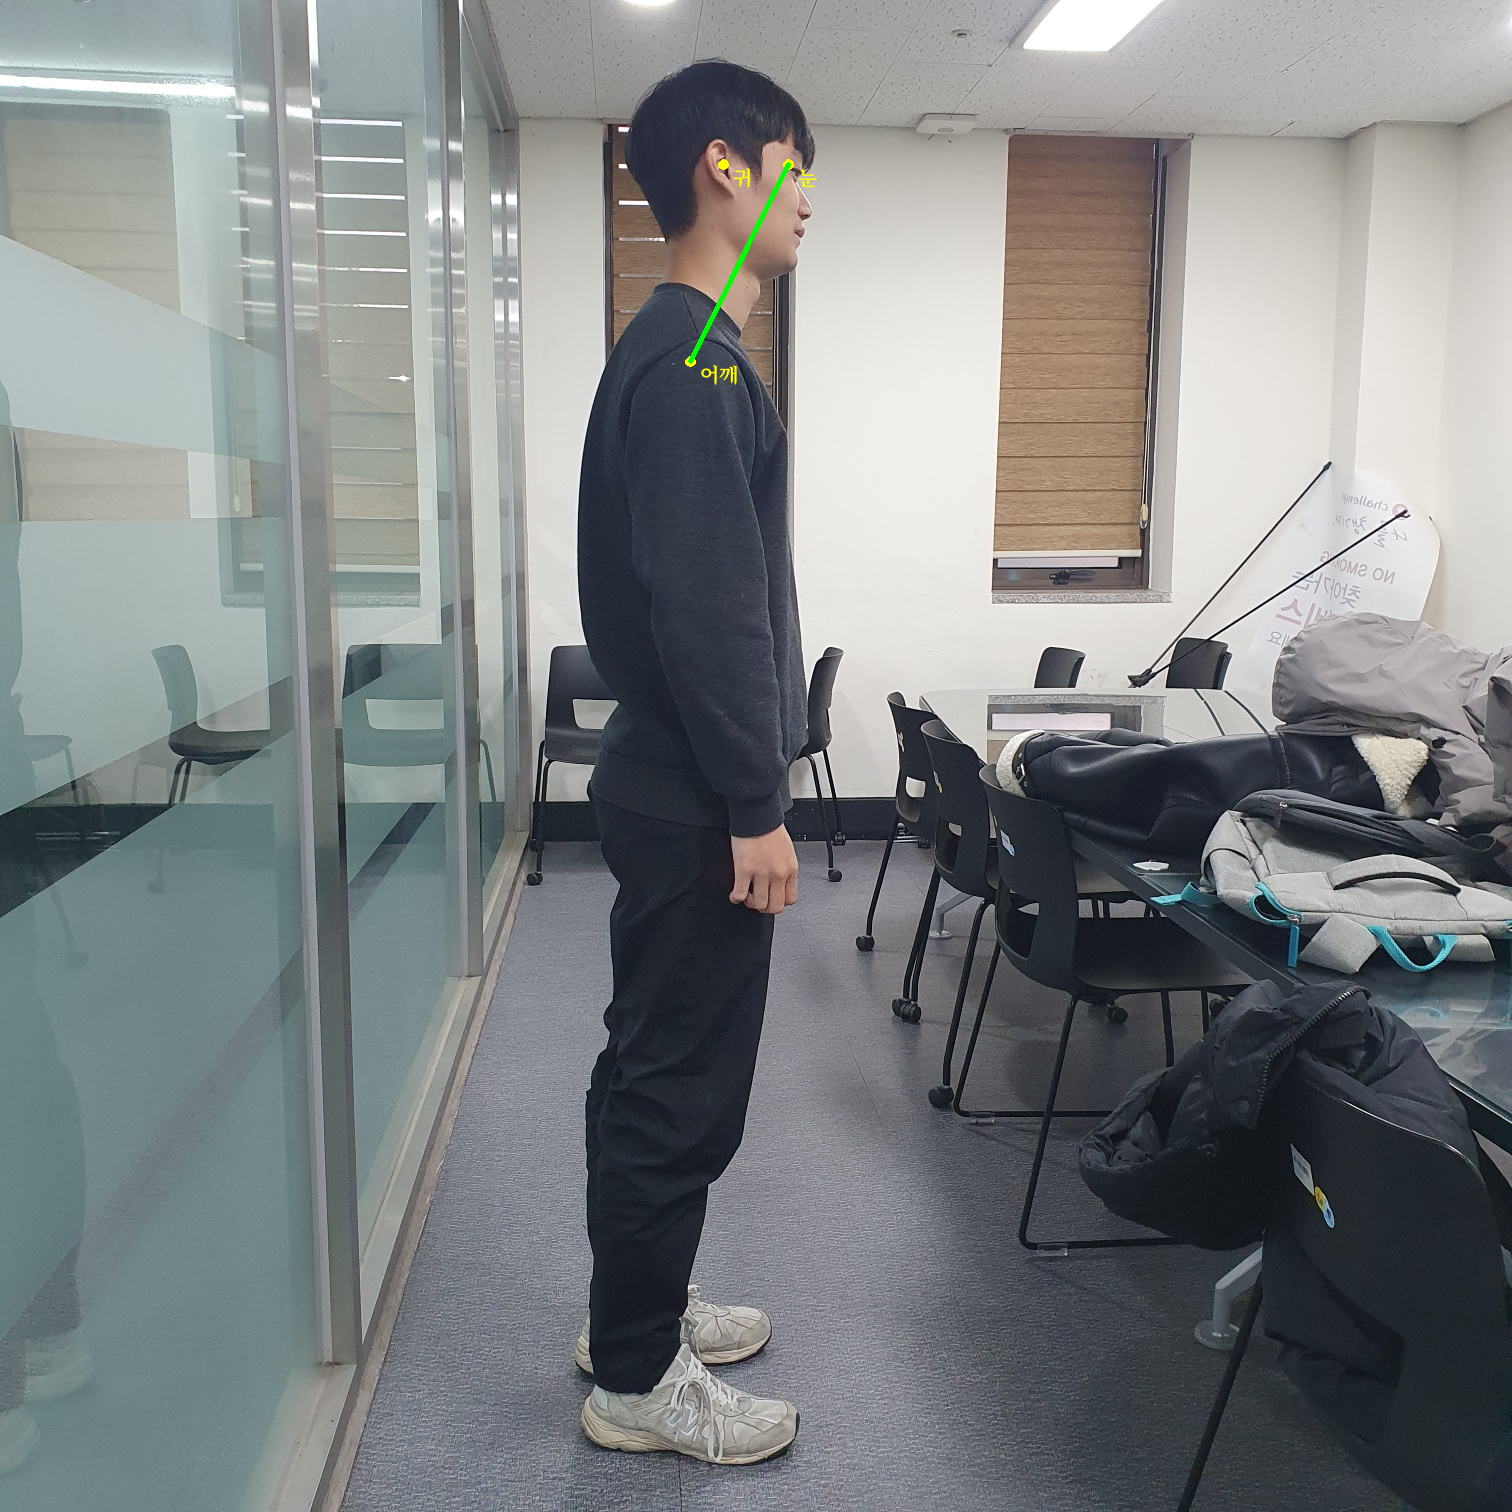
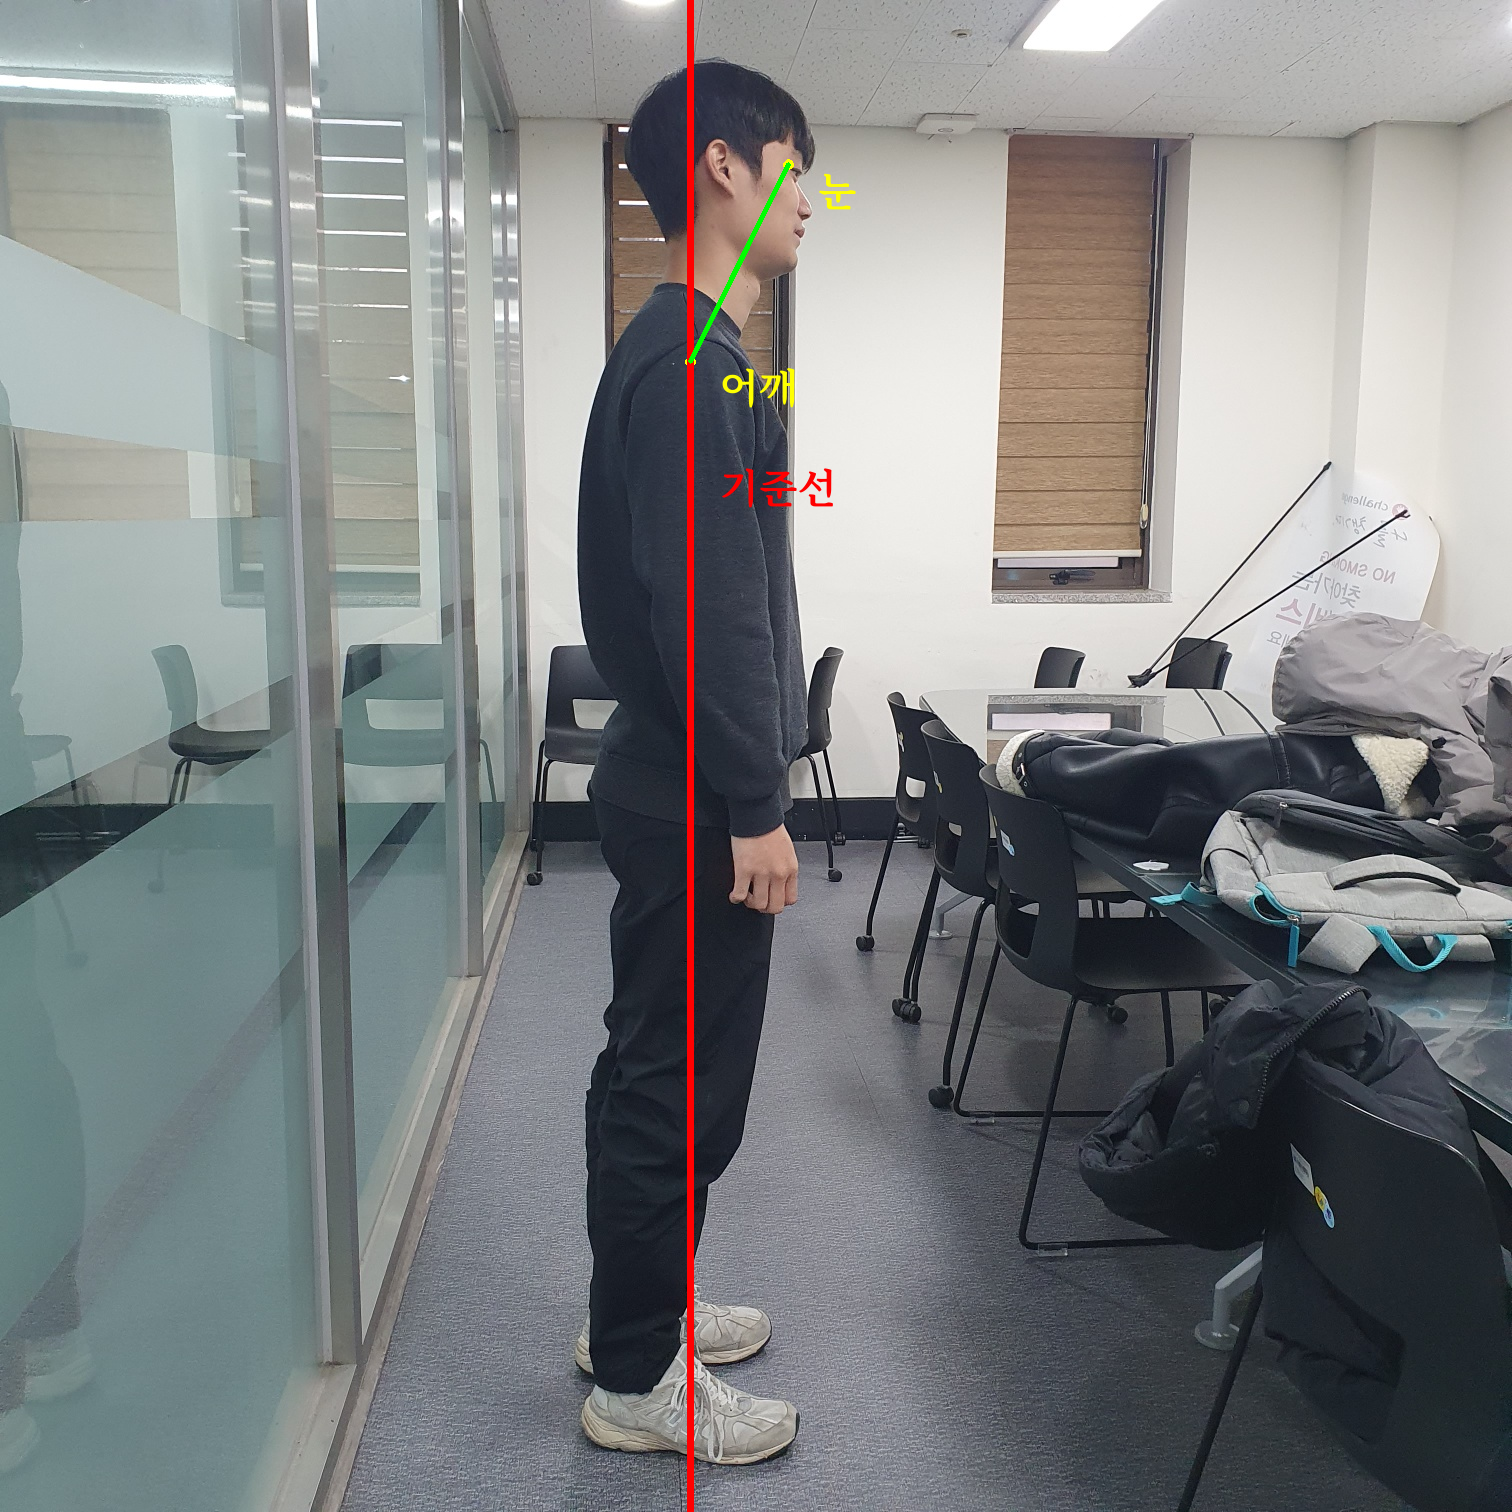
points & line update

Changed region(s): [[0.4352, 0.0, 0.5595, 1.0], [0.5284, 0.0933, 0.5595, 0.1554]]

diff --git a/ai_server/body_25.py b/ai_server/body_25.py
@@ -53,7 +53,7 @@ def output_keypoints(frame, proto_file, weights_file, threshold, model_name, BOD
     points = []                                                         # 포인트 리스트 초기화                                                      
     side = []
     front = []
-    
+    value = []                                                          # 거북목, 척추측만증 value 및 check 값
     print(f"\n============================== {picturetype} picture ==============================")
     for i in range(len(BODY_PARTS)):
 
@@ -84,25 +84,26 @@ def output_keypoints(frame, proto_file, weights_file, threshold, model_name, BOD
         if side_photo == "right":                   # 왼쪽귀가 안보이므로 오른쪽 측면 사진
             cv2.circle(frame, points[2], 5, (0, 255, 255), thickness=-1, lineType=cv2.FILLED)
             side.append(points[2])
-            frame = PutTextHangul(frame, '어깨', (points[2][0]+10, points[2][1]), 20, (0,255,255))
+            frame = PutTextHangul(frame, '어깨', (points[2][0]+30, points[2][1]), 40, (0,255,255))
             cv2.circle(frame, points[15], 5, (0, 255, 255), thickness=-1, lineType=cv2.FILLED)
             side.append(points[15])
-            frame = PutTextHangul(frame, '눈', (points[15][0]+10, points[15][1]), 20, (0,255,255))
-            cv2.circle(frame, points[17], 5, (0, 255, 255), thickness=-1, lineType=cv2.FILLED)
+            frame = PutTextHangul(frame, '눈', (points[15][0]+30, points[15][1]), 40, (0,255,255))
+            # cv2.circle(frame, points[17], 5, (0, 255, 255), thickness=-1, lineType=cv2.FILLED)
             side.append(points[17])
-            frame = PutTextHangul(frame, '귀', (points[17][0]+10, points[17][1]), 20, (0,255,255))
+            # frame = PutTextHangul(frame, '귀', (points[17][0]+10, points[17][1]), 20, (0,255,255))
             # side_shoulderx = points[2][0]
             # side_eyex = points[15][0]
             # side_earx = points[17][0]
         elif side_phto == "left":
             cv2.circle(frame, points[5], 5, (0, 255, 255), thickness=-1, lineType=cv2.FILLED)
             side.append(points[5])
-            frame = PutTextHangul(frame, '어깨', (points[5][0]+10, points[5][1]), 20, (0,255,255))
+            frame = PutTextHangul(frame, '어깨', (points[5][0]+30, points[5][1]), 40, (0,255,255))
             cv2.circle(frame, points[16], 5, (0, 255, 255), thickness=-1, lineType=cv2.FILLED)
-            frame = PutTextHangul(frame, '눈', (points[16][0]+10, points[16][1]), 20, (0,255,255))
-            cv2.circle(frame, points[18], 5, (0, 255, 255), thickness=-1, lineType=cv2.FILLED)
+            side.append(points[16])
+            frame = PutTextHangul(frame, '눈', (points[16][0]+30, points[16][1]), 40, (0,255,255))
+            # cv2.circle(frame, points[18], 5, (0, 255, 255), thickness=-1, lineType=cv2.FILLED)
             side.append(points[18])
-            frame = PutTextHangul(frame, '귀', (points[18][0]+10, points[18][1]), 20, (0,255,255))
+            # frame = PutTextHangul(frame, '귀', (points[18][0]+10, points[18][1]), 40, (0,255,255))
             # side_shoulderx = points[5][0]
             # side_eyex = points[16][0]
             # side_earx = points[18][0]
@@ -111,12 +112,12 @@ def output_keypoints(frame, proto_file, weights_file, threshold, model_name, BOD
         #front_Nosex = points[0][0]
         #front_Nosey = points[0][1]
         front.append(points[0])
-        frame = PutTextHangul(frame, '코', (points[0][0]+10, points[0][1]), 20, (0,255,255))
+        frame = PutTextHangul(frame, '얼굴', (points[0][0]+30, points[0][1]), 40, (0,255,255))
         cv2.circle(frame, points[1], 5, (0, 255, 255), thickness=-1, lineType=cv2.FILLED)
         #front_Neckx = points[1][0]
         #front_Necky = points[1][1]
         front.append(points[1])
-        frame = PutTextHangul(frame, '목', (points[1][0]+10, points[1][1]), 20, (0,255,255))
+        # frame = PutTextHangul(frame, '목', (points[1][0]+10, points[1][1]), 20, (0,255,255))
         cv2.circle(frame, points[2], 5, (0, 255, 255), thickness=-1, lineType=cv2.FILLED)
         #front_Rshoulderx = points[2][0]
         #front_Rshouldery = points[2][1]
@@ -125,7 +126,7 @@ def output_keypoints(frame, proto_file, weights_file, threshold, model_name, BOD
         #front_Lshoulderx = points[5][0]
         #front_Lshouldery = points[5][1]
         front.append(points[5])
-        frame = PutTextHangul(frame, '어깨', (points[1][0], points[5][1]+10), 20, (0,255,255))
+        frame = PutTextHangul(frame, '어깨', (points[5][0]+30, points[5][1]), 40, (0,255,255))
         cv2.circle(frame, points[8], 5, (0, 255, 255), thickness=-1, lineType=cv2.FILLED)
         #front_MidHipx = points[8][0]
         #front_MidHipy = points[8][1]
@@ -138,18 +139,29 @@ def output_keypoints(frame, proto_file, weights_file, threshold, model_name, BOD
         #front_LHipx = points[12][0]
         #front_LHipy = points[12][1]
         front.append(points[12])
-        frame = PutTextHangul(frame, '골반', (points[8][0], points[8][1]+10), 20, (0,255,255))
+        frame = PutTextHangul(frame, '골반', (points[12][0]+30, points[12][1]), 40, (0,255,255))
     if picturetype == "side":
+        cv2.line(frame, (side[0][0], 0), (side[0][0], 2000), (0, 0, 255), 5)
+        frame = PutTextHangul(frame, '기준선', (side[0][0]+30, side[0][1]+100), 40, (0,0,255))
         frame = output_keypoints_with_lines(frame = frame, type = side, picture_name = picturetype)
-        # cv2.line(frame, (side_shoulderx, 0),(side_shoulderx, 460), (0, 0, 255), 3)
-        print(f"side_shoulderx: {side_shoulderx}") 
+        TurtleneckValue = fomula.ear_to_shoulder_cm(earx=side[1][0], shoulderx=side[0][0], eyex=side[2][0])             # 귀부터 어깨까지 거리
+        print(f"TurtleneckValue: {TurtleneckValue}")
+        TurtleneckCheck = fomula.turtleneck_fomula(earx=side[1][0], shoulderx=side[0][0], eyex=side[2][0])            # 거북목 수치화 ex) 1: 정상상태, 2: 거북목 의심상태, 3: 거북목상태, 0: 에러(다른 사진으로 교체)
+        print(f"TurtleneckCheck: {TurtleneckCheck}")
+        value.append(TurtleneckValue)
+        value.append(TurtleneckCheck)
         # frame = PutTextHangul(frame, '기준점', (side_shoulderx+10, 100), 20, (0,0,255))
+        
     elif picturetype == "front":
         frame = output_keypoints_with_lines(frame = frame, type = front, picture_name = picturetype)
+        discValue = fomula.shoulder_and_face_angle(Neckx=front[1][0], Necky=front[1][1], Rshoulderx=front[3][0], Rshouldery=front[3][1], Nosex=front[0][0], Nosey=front[0][1])
+        discCheck = fomula.disc_fomula(discValue)
+        value.append(discValue)
+        value.append(discCheck)
     print(f"points: {points}")
     # cv2.imshow("Output_Keypoints", frame)
     # cv2.waitKey(0)
-    return frame
+    return (frame, value)
 
 def output_keypoints_with_lines(frame, type, picture_name):
     #front 0 : Nose, 1 : Neck, 2 : Lshoulder, 3 : Rshoulder, 4 : MidHip, 5 : LHip, 6 : RHip
@@ -161,6 +173,7 @@ def output_keypoints_with_lines(frame, type, picture_name):
         cv2.line(frame, type[1], type[4], (0, 255, 0), 3)   # 목 - 중앙골반
         cv2.line(frame, type[4], type[5], (0, 255, 0), 3)   # 중앙골반 - 왼쪽골반
         cv2.line(frame, type[4], type[6], (0, 255, 0), 3)   # 중앙골반 - 오른쪽골반
+    #side 0 : shoulder, 1 : eye, 2 : ear
     elif picture_name == "side":
         cv2.line(frame, type[0], type[1], (0, 255, 0), 3)   # 어깨 - 귀
     # frame = PutTextHangul(frame, '골반 기울기', (front_Lhipx+10, front_Lhipy + 10), 20, (0,255,255))

diff --git a/ai_server/app/__init__.py b/ai_server/app/__init__.py
@@ -12,6 +12,7 @@ app = Flask(__name__)
 
 # 진단 결과
 turtleneck_result = scoliosis_result = 0
+value = []                                      # 거북목, 척추측만증 value 및 check 임시값 
 
 @app.route('/')
 def index():
@@ -23,7 +24,7 @@ def ai_run():
     side_shoulderx = side_earx = side_eyex = 0
     front_Rshoulderx = front_Rshouldery = front_Rhipx = front_Rhipy = 0
     front_Lshoulderx = front_Lshouldery = front_Lhipx = front_Lhipy = 0
-    
+
     img=request.files["front"]
     img.save('./upload/front.png')
     img=request.files["side"]
@@ -57,24 +58,29 @@ def ai_run():
     #frame_BODY_25 = output_keypoints(frame=frame_body_25, proto_file=protoFile_body_25, weights_file=weightsFile_body_25,
     #                              threshold=0.2, model_name="BODY_25", BODY_PARTS=BODY_PARTS_BODY_25)
     
-    frame_SIDE= output_keypoints(
+    (frame_SIDE, value)= output_keypoints(
         frame=frame_side, proto_file=protoFile_body_25, weights_file=weightsFile_body_25, threshold=0.2, model_name="BODY_25", BODY_PARTS=BODY_PARTS_BODY_25, picturetype = "side")
 
-    print(f"side_earx: {side_earx}, side_shoulderx: {side_shoulderx}, side_eyex= {side_eyex}")
-    TurtleneckValue = fomula.ear_to_shoulder_cm(earx=side_earx, shoulderx=side_shoulderx, eyex=side_eyex)           # 귀부터 어깨까지 거리
-    TurtleneckCheck = fomula.turtleneck_fomula(earx=side_earx, shoulderx=side_shoulderx, eyex=side_eyex)            # 거북목 수치화 ex) 1: 정상상태, 2: 거북목 의심상태, 3: 거북목상태, 0: 에러(다른 사진으로 교체)
+    TurtleneckValue = value[0]
+    TurtleneckCheck = value[1]
+    #print(f"side_earx: {side_earx}, side_shoulderx: {side_shoulderx}, side_eyex= {side_eyex}")
+    #TurtleneckValue = fomula.ear_to_shoulder_cm(earx=side_earx, shoulderx=side_shoulderx, eyex=side_eyex)           # 귀부터 어깨까지 거리
+    #TurtleneckCheck = fomula.turtleneck_fomula(earx=side_earx, shoulderx=side_shoulderx, eyex=side_eyex)            # 거북목 수치화 ex) 1: 정상상태, 2: 거북목 의심상태, 3: 거북목상태, 0: 에러(다른 사진으로 교체)
 
     print(f"TurtleneckValue: {TurtleneckValue}cm, TurtleneckCheck: {TurtleneckCheck}")
     
-    frame_FRONT = output_keypoints(
+    (frame_FRONT, value) = output_keypoints(
         frame=frame_front, proto_file=protoFile_body_25, weights_file=weightsFile_body_25, threshold=0.2, model_name="BODY_25", BODY_PARTS=BODY_PARTS_BODY_25, picturetype = "front")
     # 정면 사진 관절 라인
     # frame_front = output_keypoints_with_lines(frame=frame_FRONT, POSE_PAIRS=POSE_PAIRS_BODY_25, side_shoulderx=side_shoulderx, side_earx=side_earx, 
     #                             front_Rshoulderx=front_Rshoulderx, front_Rshouldery=front_Rshouldery, front_Lshoulderx=front_Lshoulderx, front_Lshouldery=front_Lshouldery)
     # image_printing(frame=frame_front, picture_name="front")
-
-    discValue = fomula.shoulder_and_hip_angle(Lshoulderx=front_Lshoulderx, Lshouldery=front_Lshouldery, Rshoulderx=front_Rshoulderx, Rshouldery=front_Rshouldery, Lhipx=front_Lhipx, Lhipy=front_Lhipy, Rhipx=front_Rhipx, Rhipy=front_Rhipy)
-    discCheck = fomula.disc_fomula(Lshouldery=front_Lshouldery, Rshouldery=front_Rshouldery, Lhipy=front_Lhipy, Rhipy=front_Rhipy)
+    print(value[0])
+    print(value[1])
+    discValue = value[0]
+    discCheck = value[1]
+    #discValue = fomula.shoulder_and_hip_angle(Lshoulderx=front_Lshoulderx, Lshouldery=front_Lshouldery, Rshoulderx=front_Rshoulderx, Rshouldery=front_Rshouldery, Lhipx=front_Lhipx, Lhipy=front_Lhipy, Rhipx=front_Rhipx, Rhipy=front_Rhipy)
+    #discCheck = fomula.disc_fomula(Lshouldery=front_Lshouldery, Rshouldery=front_Rshouldery, Lhipy=front_Lhipy, Rhipy=front_Rhipy)
 
     image_path1 = ".\\download\\side.png"
     image_path2 = ".\\download\\front.png"
@@ -92,8 +98,6 @@ def ai_run():
         'turtleneckCheck' : TurtleneckCheck,
         'discValue' : discValue,
         'discCheck' : discCheck,
-        'shoulderAngle': shoulderAngle,
-        'hipAngle' : hipAngle,
     }
     print("hi")
    

diff --git a/ai_server/fomula.py b/ai_server/fomula.py
@@ -16,18 +16,21 @@ def turtleneck_fomula(earx, shoulderx, eyex):
         print("정상 상태")
         return 1
 
-def disc_fomula(Lshouldery, Rshouldery, Lhipy, Rhipy):
-    print("[척추측만증 진단결과]")
+def disc_fomula(discCheck):
+    
+    return 1
+# def disc_fomula(Lshouldery, Rshouldery, Lhipy, Rhipy):
+#     print("[척추측만증 진단결과]")
 
-    if (Lshouldery > Rshouldery) and (Lhipy < Rhipy):
-        print("척추측만증 매우 의심")
-        return 3
-    elif (abs(Lshouldery-Rshouldery) > abs(Lhipy-Rhipy)):
-        print("척추측만증 약간 의심")
-        return 2
-    else:
-        print("정상 상태")    
-        return 1
+#     if (Lshouldery > Rshouldery) and (Lhipy < Rhipy):
+#         print("척추측만증 매우 의심")
+#         return 3
+#     elif (abs(Lshouldery-Rshouldery) > abs(Lhipy-Rhipy)):
+#         print("척추측만증 약간 의심")
+#         return 2
+#     else:
+#         print("정상 상태")    
+#         return 1
 
 def ear_to_shoulder_cm(earx, shoulderx, eyex):
     
@@ -39,11 +42,11 @@ def ear_to_shoulder_cm(earx, shoulderx, eyex):
     result = 6 * A / B
     return result
 
-def shoulder_and_hip_angle(Lshoulderx, Lshouldery, Rshoulderx, Rshouldery, Lhipx, Lhipy, Rhipx, Rhipy):
-    x1 = Lshoulderx-Rshoulderx
-    y1 = Lshouldery-Rshouldery
-    x2 = Lhipx-Rhipx
-    y2 = Lhipy-Rhipy
+def shoulder_and_face_angle(Neckx, Necky, Rshoulderx, Rshouldery, Nosex, Nosey):
+    x1 = Rshoulderx-Neckx
+    y1 = Rshouldery-Necky
+    x2 = Nosex-Neckx
+    y2 = Nosey-Necky
 
     vector_1 = np.array([x1, y1])                           # A벡터
     vector_2 = np.array([x2, y2])                           # B벡터
@@ -53,7 +56,7 @@ def shoulder_and_hip_angle(Lshoulderx, Lshouldery, Rshoulderx, Rshouldery, Lhipx
 
     angle_radian = np.arccos(innerAB/AB)                    # cosΘ = AㅇB / |A||B|
     angle_PI = (angle_radian / np.pi * 180)
-    print(f"shoulder and hip angle: {angle_PI}")
+    print(f"shoulder and face angle: {angle_PI}")
 
     return angle_PI
 
